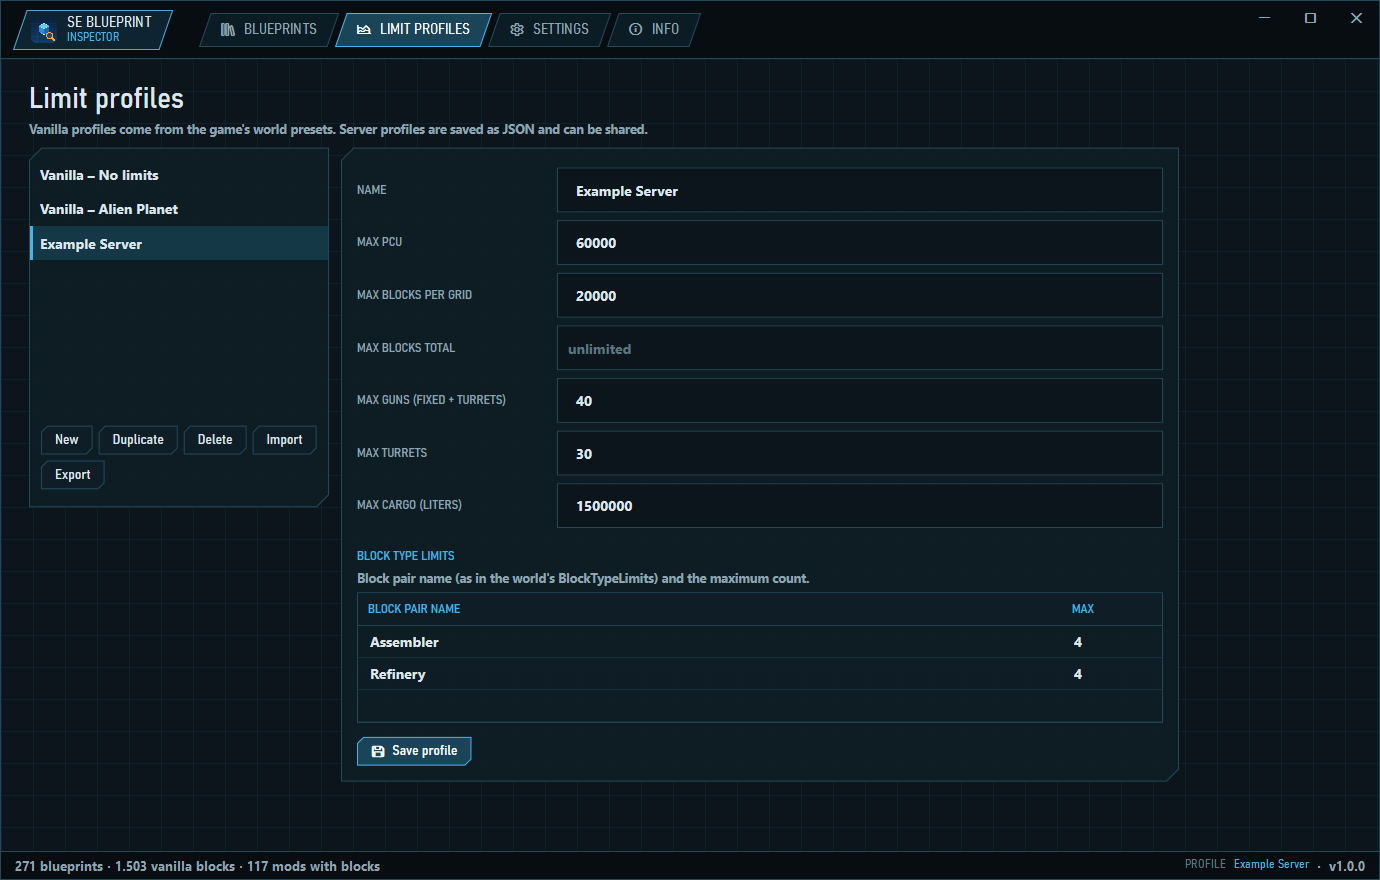
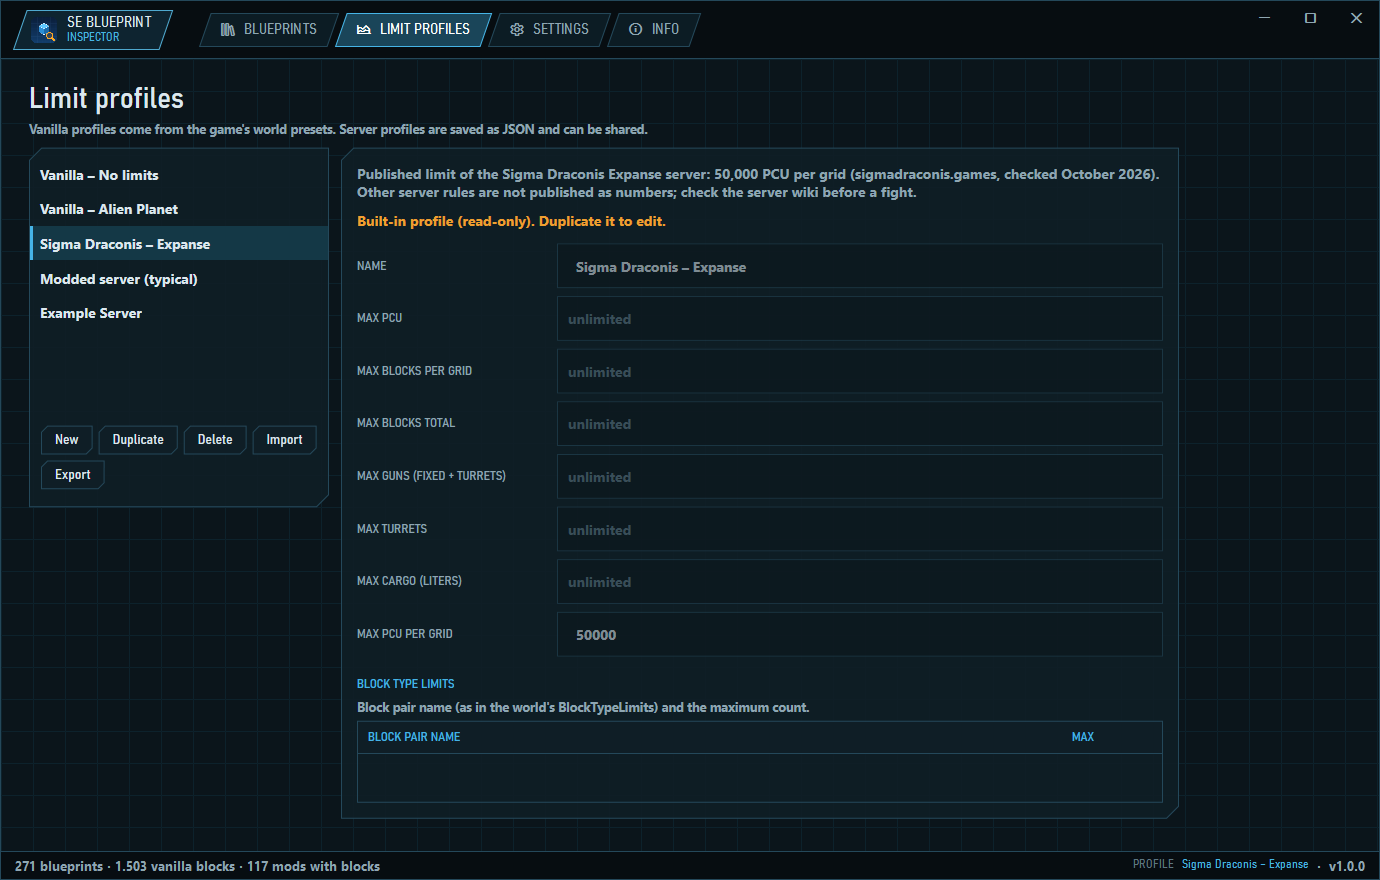
docs: cleaner README with grouped badges, SE2 coming soon, release guide

diff --git a/README.md b/README.md
@@ -1,133 +1,145 @@
-<p align="center">
-  <img src="assets/icon/app-icon-256.png" width="112" alt="SE Blueprint Inspector icon">
-</p>
+<div align="center">
 
-<h1 align="center">SE Blueprint Inspector</h1>
+<img src="assets/icon/app-icon-256.png" width="104" alt="SE Blueprint Inspector">
 
-<p align="center">
-  Build cost, blocks, PCU, guns and cargo for every Space Engineers blueprint —<br>
-  checked against vanilla or server limits, with modded weapons and containers counted correctly.
-</p>
+# SE Blueprint Inspector
 
-<p align="center">
-  <a href="https://github.com/Rathio12/SE_BlueprintEditor/releases/latest"><img alt="Latest release" src="https://img.shields.io/github/v/release/Rathio12/SE_BlueprintEditor?style=flat-square&color=46B4E6"></a>
-  <a href="https://github.com/Rathio12/SE_BlueprintEditor/actions/workflows/ci.yml"><img alt="CI" src="https://img.shields.io/github/actions/workflow/status/Rathio12/SE_BlueprintEditor/ci.yml?branch=main&style=flat-square&label=build"></a>
-  <img alt="Platform" src="https://img.shields.io/badge/platform-Windows%2010%20%7C%2011-0B151B?style=flat-square">
-  <img alt=".NET 8" src="https://img.shields.io/badge/.NET-8.0-512BD4?style=flat-square">
-  <img alt="Portable" src="https://img.shields.io/badge/portable-single%20exe-5BC07A?style=flat-square">
-  <img alt="Space Engineers" src="https://img.shields.io/badge/Space%20Engineers-1-F0A030?style=flat-square">
-  <img alt="Space Engineers 2" src="https://img.shields.io/badge/Space%20Engineers%202-coming%20soon-5D7682?style=flat-square">
-  <a href="LICENSE"><img alt="License" src="https://img.shields.io/badge/license-MIT%20OR%20GPL--3.0-blue?style=flat-square"></a>
-</p>
+**Build cost, blocks, PCU, guns and cargo for every Space Engineers blueprint —<br>checked against vanilla or server limits, with modded weapons and containers counted correctly.**
 
-<p align="center">
-  <img src="docs/images/blueprints.png" alt="Blueprint list and detail view" width="900">
-</p>
+[![Release](https://img.shields.io/github/v/release/Rathio12/SE_BlueprintEditor?style=flat-square&label=release&labelColor=0B151B&color=46B4E6)](https://github.com/Rathio12/SE_BlueprintEditor/releases/latest)
+[![Downloads](https://img.shields.io/github/downloads/Rathio12/SE_BlueprintEditor/total?style=flat-square&labelColor=0B151B&color=46B4E6)](https://github.com/Rathio12/SE_BlueprintEditor/releases)
+[![Release build](https://img.shields.io/github/actions/workflow/status/Rathio12/SE_BlueprintEditor/release.yml?branch=main&style=flat-square&label=build&labelColor=0B151B)](https://github.com/Rathio12/SE_BlueprintEditor/actions/workflows/release.yml)
+[![License](https://img.shields.io/badge/license-MIT%20%7C%20GPL--3.0-46B4E6?style=flat-square&labelColor=0B151B)](LICENSE)
+
+![Windows](https://img.shields.io/badge/Windows-10%20%7C%2011-DCE8EE?style=flat-square&labelColor=0B151B&logo=windows11&logoColor=white)
+![Portable](https://img.shields.io/badge/portable-single%20exe-5BC07A?style=flat-square&labelColor=0B151B)
+![Offline](https://img.shields.io/badge/offline-no%20telemetry-5BC07A?style=flat-square&labelColor=0B151B)
+![.NET](https://img.shields.io/badge/.NET-8-8E7CC3?style=flat-square&labelColor=0B151B&logo=dotnet&logoColor=white)
+![Space Engineers](https://img.shields.io/badge/Space%20Engineers-supported-F0A030?style=flat-square&labelColor=0B151B)
+![Space Engineers 2](https://img.shields.io/badge/Space%20Engineers%202-coming%20soon-5D7682?style=flat-square&labelColor=0B151B)
+
+[**Download**](https://github.com/Rathio12/SE_BlueprintEditor/releases/latest) · [Features](#features) · [Limit profiles](#limit-profiles) · [Report a bug](https://github.com/Rathio12/SE_BlueprintEditor/issues/new/choose) · [Changelog](CHANGELOG.md)
+
+<img src="docs/images/blueprints.png" alt="Blueprint list and detail view" width="920">
+
+</div>
+
+---
 
 ## Download
 
-1. Grab `SEBlueprintInspector-vX.Y.Z-win-x64.zip` from **[Releases](https://github.com/Rathio12/SE_BlueprintEditor/releases/latest)**.
-2. Unzip anywhere (desktop, USB stick, a tools folder) and run `SEBlueprintInspector.exe`.
+1. Download **`SEBlueprintInspector.exe`** from the [latest release](https://github.com/Rathio12/SE_BlueprintEditor/releases/latest).
+2. Put it anywhere — desktop, a tools folder, a USB stick — and run it.
 
-No installer, no .NET install, no admin rights. Everything the app saves lives in a
-`SEBlueprintInspector-data` folder next to the exe — delete the folder and the app is gone.
+That's it: no installer, no .NET install, no admin rights. The app keeps its settings in a
+`SEBlueprintInspector-data` folder next to the exe. Delete both and it's gone without a trace.
 
-## What it does
+## Features
 
 | | |
-|---|---|
-| **Finds everything** | Steam, every Steam library, Space Engineers, Workshop mods and all blueprint folders (local, cloud, Workshop) are detected automatically. Space Engineers 2 blueprints are listed too (full SE2 support coming soon). |
+|:--|:--|
+| **Finds everything** | Steam, every Steam library, Space Engineers, Workshop mods and all blueprint folders (local, cloud, Workshop) are detected automatically. |
 | **Counts what matters** | Blocks, PCU, mass, fixed guns, turrets, cargo containers and liters, thrust, power and jump range — per blueprint, at a glance. |
 | **Build cost** | Components → ingots → ore with the real in-game icons, assembler speed (realistic / x3 / x10) and refinery yield modules. Copy to a spreadsheet or export CSV. |
-| **Limit checks** | Pick a profile and every blueprint gets an OK / near / over status. Vanilla profiles come from the game's own world presets; make your own for a server and share it as a JSON file. |
+| **Limit checks** | Every blueprint gets an **OK / NEAR / OVER** status for the selected profile, with segmented gauges for PCU, blocks, guns and cargo. |
 | **Mods done right** | Modded blocks are read from the mods on your PC. WeaponCore / CoreSystems weapons (usually hidden as conveyor sorters) are recognised as guns or turrets. Mod recipes only apply to blueprints that use that mod. |
 | **Honest about gaps** | Blocks from mods that aren't on your PC are listed with the missing Workshop IDs instead of being silently ignored. |
 
-<p align="center">
-  <img src="docs/images/profiles.png" alt="Limit profile editor" width="760">
-</p>
-
 ## Limit profiles
 
-| Profile | Source |
-|---|---|
-| `Vanilla – …` | Read from `Content/CustomWorlds/*/Sandbox_config.sbc` of your installed game (`TotalPCU`, `MaxGridSize`, `MaxBlocksPerPlayer`, `BlockTypeLimits`). Identical presets are merged. Read-only. |
-| Your own | Max PCU, blocks per grid, blocks total, guns, turrets, cargo liters and per-block-type limits. Saved as `SEBlueprintInspector-data/profiles/<name>.json`. |
+<img src="docs/images/profiles.png" alt="Limit profile editor" width="760">
 
-Status rules: **OK** below 90 % of a limit, **NEAR** from 90 % up to the limit, **OVER** above it. Empty fields mean "no limit".
+| Profile | What it is |
+|:--|:--|
+| **Vanilla – …** | Read from the world presets of your installed game (`TotalPCU`, `MaxGridSize`, `MaxBlocksPerPlayer`, `BlockTypeLimits`). |
+| **Sigma Draconis – Expanse** | The server's published limit: **50,000 PCU per grid**. |
+| **Modded server (typical)** | A starting point for modded survival servers — duplicate and adjust. |
+| **Your own** | PCU, PCU per grid, blocks per grid, blocks total, guns, turrets, cargo and per-block-type limits. Share them as JSON files. |
+
+Built-in profiles are read-only; duplicate one to change it.
+Status: **OK** below 90 % of a limit, **NEAR** from 90 % to the limit, **OVER** above it.
 
 ## Modded weapons and cargo
 
-* **Vanilla weapons** are classified by block type: `LargeGatlingTurret`, `LargeMissileTurret`, `InteriorTurret` and `*Turret` are turrets; `SmallGatlingGun`, `SmallMissileLauncher`, `SmallMissileLauncherReload` and other blocks with a weapon definition are fixed guns.
-* **WeaponCore / CoreSystems** weapons are found by reading the mod's `Data/Scripts` weapon definitions as text (never executed): a mount point with an azimuth part is a turret, otherwise a fixed gun.
-* **Cargo** uses the block's `InventorySize`; containers without one get the in-game default (block volume × 1000 L).
+- **Vanilla weapons** by block type — `LargeGatlingTurret`, `LargeMissileTurret`, `InteriorTurret` and `*Turret` are turrets; `SmallGatlingGun`, `SmallMissileLauncher`, `SmallMissileLauncherReload` and blocks with a weapon definition are fixed guns.
+- **WeaponCore / CoreSystems** weapons are found in the mod's `Data/Scripts` weapon definitions, read as text and never executed: a mount point with an azimuth part is a turret, otherwise a fixed gun.
+- **Cargo** uses the block's `InventorySize`; containers without one get the in-game default (block volume × 1000 L).
 
-## Space Engineers 2 — support coming soon
+## Space Engineers 2 — coming soon
 
-> **SE2 support is coming soon.** Right now SE2 blueprint files can't be read: the grid data
-> (`grid.json.vrb`) is stored in an undocumented binary format.
+> [!NOTE]
+> **Full SE2 support is coming soon.** SE2 blueprint files can't be read yet — the grid data
+> (`grid.json.vrb`) uses an undocumented binary format.
 
-What already works: SE2 is detected, its blueprints are listed, and **blocks and PCU** are shown
-(taken from each blueprint's info file), so PCU and block limits can be checked. Build cost, weapons
-and cargo for SE2 will be added as soon as the grid format can be read.
+Already working: SE2 is detected, its blueprints are listed with **blocks and PCU** (from each blueprint's
+info file), and PCU / block limits are checked. Build cost, weapons and cargo follow once the format can be read.
 
 ## Privacy
 
-The app works fully offline: no internet access, no telemetry, no auto-updater, no native code. Game, mod and blueprint files are only ever read. A unit test fails the build if network code or foreign URLs are ever added. Details: [PRIVACY.md](PRIVACY.md).
+> [!TIP]
+> The app is **fully offline**: no internet access, no telemetry, no auto-updater, no native code.
+> Game, mod and blueprint files are only read, never changed. A test fails the build if network code
+> or foreign URLs are ever added. → [PRIVACY.md](PRIVACY.md)
 
 ## Build from source
 
-Requirements: Windows, [.NET 8 SDK](https://dotnet.microsoft.com/download/dotnet/8.0) or newer.
+Requires Windows and the [.NET 8 SDK](https://dotnet.microsoft.com/download/dotnet/8.0) or newer.
 
 ```powershell
 git clone https://github.com/Rathio12/SE_BlueprintEditor.git
 cd SE_BlueprintEditor
-dotnet test                                    # core tests
-dotnet run --project src/SEBlueprint.App       # run the app
+dotnet test                                                     # core tests
+dotnet run --project src/SEBlueprint.App                        # run the app
 dotnet publish src/SEBlueprint.App -c Release -o out/portable   # single portable exe
 ```
 
-Command line: `SEBlueprintInspector.exe <blueprint folder | bp.sbc>` opens that blueprint; `--page profiles|settings|info` picks the start tab.
+`SEBlueprintInspector.exe <blueprint folder | bp.sbc>` opens that blueprint directly;
+`--page profiles|settings|info` picks the start tab.
 
-## Releasing
+## Versions and releases
 
-Releases are automatic. The version lives in [`Directory.Build.props`](Directory.Build.props).
+Versions follow **`1.x.y`** — `1` is the product line, **`x` the build**, **`y` the fixes** on that build.
 
 ```powershell
-./tools/release.ps1 -Version 1.1.0      # runs tests, bumps the version, commits and pushes
+./tools/release.ps1          # next build:  1.0.0 -> 1.1.0
+./tools/release.ps1 -Fix     # next fix:    1.1.0 -> 1.1.1
 ```
 
-On every push to `main`, GitHub Actions ([release.yml](.github/workflows/release.yml)):
+The script runs the tests, bumps the version in [`Directory.Build.props`](Directory.Build.props) and pushes.
+GitHub Actions ([release.yml](.github/workflows/release.yml)) then does the rest on every push to `main`:
 
 1. runs the tests,
-2. rewrites the `## [Unreleased]` part of [CHANGELOG.md](CHANGELOG.md) from the commit messages since the last release,
-3. if the version has no `vX.Y.Z` tag yet: turns *Unreleased* into the new version section, builds the portable exe,
-   zips it with a SHA-256 checksum, tags the commit and publishes the GitHub release with those notes.
+2. rewrites the *Unreleased* part of [CHANGELOG.md](CHANGELOG.md) from the commit messages,
+3. for a new version: turns *Unreleased* into the version's section, builds the exe and publishes the release.
 
-Use [Conventional Commits](https://www.conventionalcommits.org/) so the changelog sorts itself:
-`feat: …` → **Added**, `fix: …` → **Fixed**, `perf/refactor/docs: …` → **Changed**, `chore/ci/test/build: …` are left out.
+Commit messages use [Conventional Commits](https://www.conventionalcommits.org/):
+`feat:` → **Added**, `fix:` → **Fixed**, `perf` / `refactor` / `docs` → **Changed**; `chore`, `ci`, `test` and `build` are left out.
 
 ## Project layout
 
-```
-src/SEBlueprint.Core     game data, mods, blueprint analysis, cost, limits (no UI)
-src/SEBlueprint.App      Windows app (WPF, custom UI)
-tests/                   xUnit tests with small fixture files
-tools/release.ps1        release script
-assets/icon/             app icon source (build_icon.py)
-docs/                    screenshots, wiki pages, design notes
+```text
+src/SEBlueprint.Core   game data, mods, blueprint analysis, cost and limits (no UI)
+src/SEBlueprint.App    Windows app (WPF, custom UI)
+tests/                 xUnit tests with small fixture files
+tools/                 release and changelog scripts
+assets/icon/           app icon source
+docs/images/           screenshots
 ```
 
 ## Contributing
 
-Bug reports and pull requests are welcome — see [CONTRIBUTING.md](CONTRIBUTING.md), [CODE_OF_CONDUCT.md](CODE_OF_CONDUCT.md) and [SECURITY.md](SECURITY.md).
+Bug reports, mod-compatibility reports and pull requests are welcome —
+see [CONTRIBUTING.md](CONTRIBUTING.md), [CODE_OF_CONDUCT.md](CODE_OF_CONDUCT.md) and [SECURITY.md](SECURITY.md).
+If the tool helps you, a ⭐ on the repo helps others find it.
 
 ## License
 
-Dual-licensed under **MIT OR GPL-3.0-or-later** — use whichever fits your project. See [LICENSE](LICENSE), [LICENSE-MIT](LICENSE-MIT) and [LICENSE-GPL](LICENSE-GPL).
+Dual-licensed **MIT OR GPL-3.0-or-later** — use whichever fits your project.
+See [LICENSE](LICENSE), [LICENSE-MIT](LICENSE-MIT) and [LICENSE-GPL](LICENSE-GPL).
 
 ## Credits
 
-* Inspired by [SE-BlueprintEditor](https://github.com/ScriptedEngineer/SE-BlueprintEditor) by ScriptedEngineer. This is an independent rewrite — no code from that project is used.
-* [BCnEncoder.NET](https://github.com/Nominom/BCnEncoder.NET) (MIT) decodes the game's icons.
-* Space Engineers, its data and icons © Keen Software House. Not affiliated with or endorsed by Keen Software House.
+- Inspired by [SE-BlueprintEditor](https://github.com/ScriptedEngineer/SE-BlueprintEditor) by ScriptedEngineer — this is an independent rewrite; no code from that project is used.
+- [BCnEncoder.NET](https://github.com/Nominom/BCnEncoder.NET) (MIT) decodes the game's icons.
+- Sigma Draconis Expanse limits from [sigmadraconis.games](https://sigmadraconis.games/).
+- Space Engineers, its data and icons © Keen Software House. Not affiliated with or endorsed by Keen Software House.

diff --git a/SECURITY.md b/SECURITY.md
@@ -27,8 +27,10 @@ Mod scripts are only read as text and never compiled or run; a report showing ot
 
 ## Verifying downloads
 
-Every release lists a SHA-256 checksum (`.sha256` file). Compare it before running the exe:
+Only download `SEBlueprintInspector.exe` from this repository's
+[Releases](https://github.com/Rathio12/SE_BlueprintEditor/releases) page. GitHub shows the SHA-256 of every
+release file next to it; compare it with your download:
 
 ```powershell
-Get-FileHash .\SEBlueprintInspector-v1.0.0-win-x64.zip -Algorithm SHA256
+Get-FileHash .\SEBlueprintInspector.exe -Algorithm SHA256
 ```
